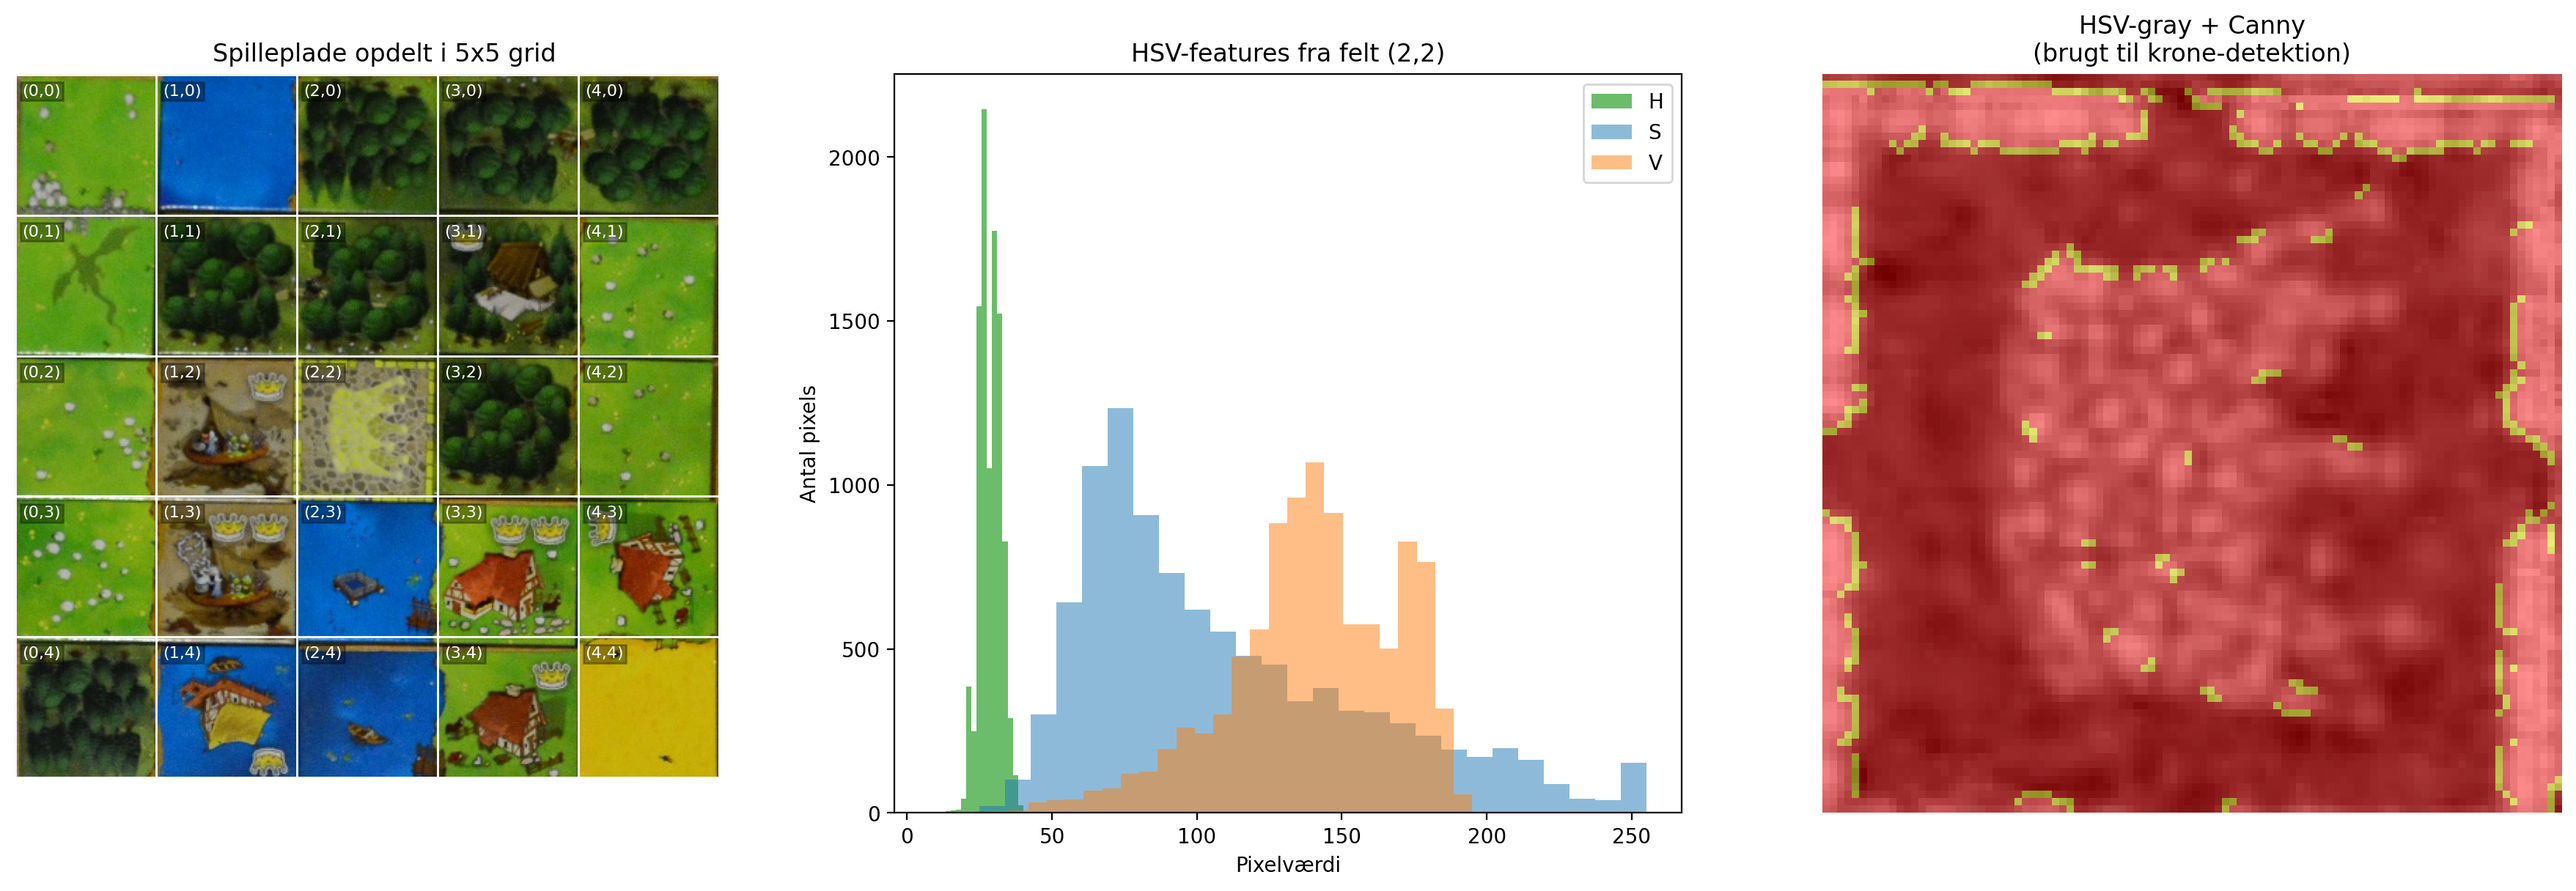
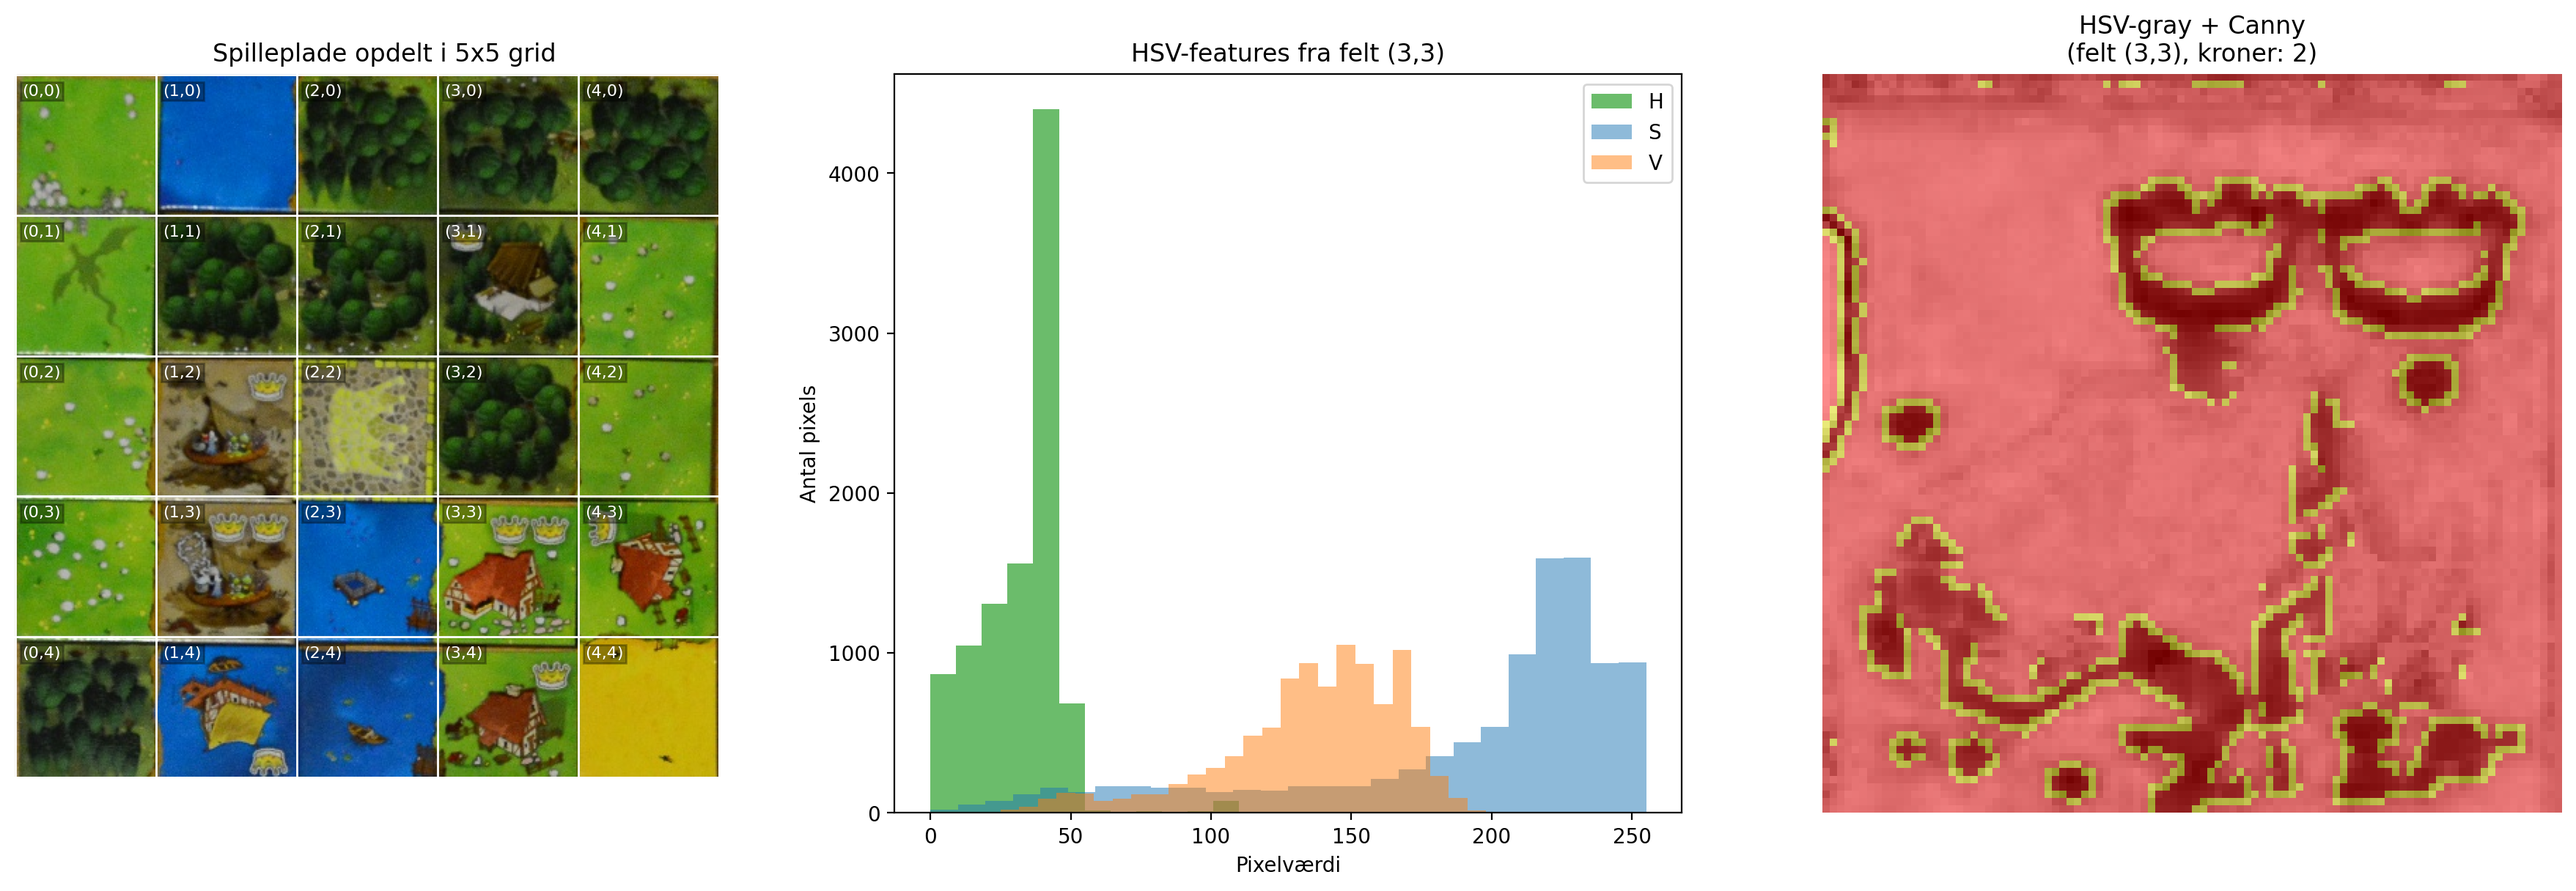
chore: clean up empty code change sections in the changes log

diff --git a/generate_report_figures.py b/generate_report_figures.py
@@ -207,20 +207,18 @@ def detect_crowns_debug(
             confirmed_rects.append(rect)
 
     if potential_matches:
-        raw_rectangles = [match[0] for match in potential_matches]
-        raw_grouped, _ = cv.groupRectangles(raw_rectangles, groupThreshold=1, eps=0.5)
-        if len(raw_grouped) == 0:
-            raw_grouped = np.array(raw_rectangles, dtype=np.int32)
+        # Bevidst før grouping, så debug-figuren tydeligt viser hvorfor efterfiltrering er nødvendig
+        raw_candidates = np.array([match[0] for match in potential_matches], dtype=np.int32)
     else:
-        raw_grouped = np.empty((0, 4), dtype=np.int32)
+        raw_candidates = np.empty((0, 4), dtype=np.int32)
 
     if not confirmed_rects:
-        return raw_grouped, np.empty((0, 4), dtype=np.int32)
+        return raw_candidates, np.empty((0, 4), dtype=np.int32)
 
     verified_grouped, _ = cv.groupRectangles(confirmed_rects, groupThreshold=1, eps=0.5)
     if len(verified_grouped) == 0:
         verified_grouped = np.array(confirmed_rects, dtype=np.int32)
-    return raw_grouped, verified_grouped
+    return raw_candidates, verified_grouped
 
 
 def build_tiles(image: np.ndarray, model: RandomForestClassifier, feature_cols: list[str], label_encoder: LabelEncoder, templates: list[tuple[np.ndarray, np.ndarray, int, int, float, float]]) -> dict[tuple[int, int], dict]:
@@ -291,7 +289,13 @@ def draw_architecture_diagram() -> None:
     plt.close(fig)
 
 
-def draw_feature_visualization(sample_image: np.ndarray, model: RandomForestClassifier, feature_cols: list[str], label_encoder: LabelEncoder) -> None:
+def draw_feature_visualization(
+    sample_image: np.ndarray,
+    model: RandomForestClassifier,
+    feature_cols: list[str],
+    label_encoder: LabelEncoder,
+    templates: list[tuple[np.ndarray, np.ndarray, int, int, float, float]],
+) -> None:
     fig, axes = plt.subplots(1, 3, figsize=(18, 6))
 
     axes[0].imshow(cv.cvtColor(sample_image, cv.COLOR_BGR2RGB))
@@ -304,8 +308,22 @@ def draw_feature_visualization(sample_image: np.ndarray, model: RandomForestClas
         for x in range(5):
             axes[0].text(x * 100 + 5, y * 100 + 15, f"({x},{y})", color="white", fontsize=8, bbox=dict(facecolor="black", alpha=0.3, pad=1))
 
-    # Samme felt vises i både HSV- og Canny-visualisering
-    tile_x, tile_y = 2, 2
+    # Vælg helst et felt med krone, så featurefiguren bliver mere informativ
+    image_hsv = cv.cvtColor(sample_image, cv.COLOR_BGR2HSV)
+    image_hsv_gray = cv.cvtColor(image_hsv, cv.COLOR_BGR2GRAY)
+    all_rects = detect_crowns(image_hsv, image_hsv_gray, templates)
+    crowns_per_tile: dict[tuple[int, int], int] = {}
+    for x, y, w, h in all_rects:
+        cx = x + w // 2
+        cy = y + h // 2
+        tile_coord = (cx // 100, cy // 100)
+        crowns_per_tile[tile_coord] = crowns_per_tile.get(tile_coord, 0) + 1
+
+    if crowns_per_tile:
+        tile_x, tile_y = max(crowns_per_tile.items(), key=lambda item: item[1])[0]
+    else:
+        tile_x, tile_y = 2, 2
+
     tile = sample_image[tile_y * 100 : (tile_y + 1) * 100, tile_x * 100 : (tile_x + 1) * 100]
     hsv_tile = cv.cvtColor(tile, cv.COLOR_BGR2HSV)
     h_channel = hsv_tile[:, :, 0].flatten()
@@ -324,7 +342,8 @@ def draw_feature_visualization(sample_image: np.ndarray, model: RandomForestClas
     hsv_edges = cv.Canny(hsv_gray, 200, 220)
     axes[2].imshow(hsv_gray, cmap="gray")
     axes[2].imshow(hsv_edges, cmap="autumn", alpha=0.45)
-    axes[2].set_title("HSV-gray + Canny\n(brugt til krone-detektion)")
+    crown_note = crowns_per_tile.get((tile_x, tile_y), 0)
+    axes[2].set_title(f"HSV-gray + Canny\n(felt ({tile_x},{tile_y}), kroner: {crown_note})")
     axes[2].axis("off")
 
     fig.tight_layout()
@@ -365,38 +384,31 @@ def draw_crown_visualization(sample_image: np.ndarray, templates: list[tuple[np.
     return {}
 
 
-def draw_template_debug_comparison(sample_image: np.ndarray, templates: list[tuple[np.ndarray, np.ndarray, int, int, float, float]]) -> None:
-    fig, axes = plt.subplots(1, 2, figsize=(14, 7))
-    for ax in axes:
-        ax.imshow(cv.cvtColor(sample_image, cv.COLOR_BGR2RGB))
-        ax.axis("off")
-        for i in range(6):
-            ax.axhline(i * 100, color="white", lw=1, alpha=0.6)
-            ax.axvline(i * 100, color="white", lw=1, alpha=0.6)
+def draw_template_reference_figure() -> None:
+    template_path = BASE_DIR / "features" / "kongekrone_nord.jpg"
+    template_bgr = cv.imread(str(template_path), cv.IMREAD_COLOR)
+    if template_bgr is None:
+        return
 
-    image_hsv = cv.cvtColor(sample_image, cv.COLOR_BGR2HSV)
-    image_hsv_gray = cv.cvtColor(image_hsv, cv.COLOR_BGR2GRAY)
-    raw_rects, verified_rects = detect_crowns_debug(image_hsv, image_hsv_gray, templates)
+    template_hsv = cv.cvtColor(template_bgr, cv.COLOR_BGR2HSV)
+    template_hsv_gray = cv.cvtColor(template_hsv, cv.COLOR_BGR2GRAY)
+    template_edges = cv.Canny(template_hsv_gray, 140, 180)
 
-    for rect in raw_rects:
-        x, y, w, h = rect
-        axes[0].add_patch(
-            plt.Rectangle((x, y), w, h, fill=False, ec="#ff4d4d", lw=1.2)
-        )
-    for rect in verified_rects:
-        x, y, w, h = rect
-        axes[1].add_patch(
-            plt.Rectangle((x, y), w, h, fill=False, ec="#00ff84", lw=1.8)
-        )
+    fig, axes = plt.subplots(1, 3, figsize=(12, 4.5))
+    axes[0].imshow(cv.cvtColor(template_bgr, cv.COLOR_BGR2RGB))
+    axes[0].set_title("Template (RGB)")
+    axes[0].axis("off")
 
-    raw_count = len(raw_rects)
-    verified_count = len(verified_rects)
+    axes[1].imshow(template_hsv_gray, cmap="gray")
+    axes[1].set_title("Template i HSV-gray")
+    axes[1].axis("off")
 
-    axes[0].set_title(f"Rå template matches (efter gruppering): {raw_count}")
-    axes[1].set_title(f"Efter Canny-verifikation: {verified_count}")
+    axes[2].imshow(template_edges, cmap="gray")
+    axes[2].set_title("Canny-kanter på template")
+    axes[2].axis("off")
 
     fig.tight_layout()
-    fig.savefig(FIGURE_DIR / "template_matching_debug.png", dpi=220, bbox_inches="tight")
+    fig.savefig(FIGURE_DIR / "template_reference.png", dpi=220, bbox_inches="tight")
     plt.close(fig)
 
 
@@ -439,10 +451,10 @@ def main() -> None:
         raise FileNotFoundError(f"Could not read sample image: {sample_image_path}")
 
     draw_architecture_diagram()
-    draw_feature_visualization(sample_image, model, feature_cols, label_encoder)
+    draw_feature_visualization(sample_image, model, feature_cols, label_encoder, templates)
     tiles = build_tiles(sample_image, model, feature_cols, label_encoder, templates)
     draw_crown_visualization(sample_image, templates)
-    draw_template_debug_comparison(sample_image, templates)
+    draw_template_reference_figure()
     total_score, clusters = calculate_score(tiles)
     draw_cluster_visualization(tiles, clusters)
     print(f"Saved figures to {FIGURE_DIR}")

diff --git a/Rapport_Afsnit_v2.tex b/Rapport_Afsnit_v2.tex
@@ -39,11 +39,11 @@ Dernæst trækkes der histogramegenskaber, hvor farvernes fordeling inddeles i i
 \begin{figure}[htbp]
     \centering
     \includegraphics[width=0.95\textwidth]{figures/grid_feature_visualization.png}
-    \caption{Et eksempel på en spilleplade opdelt i $5 \times 5$ grid, samt visualisering af både HSV-features (terrænklassificering) og HSV-gray/Canny-features (krone-detektion) fra et enkelt felt.}
+    \caption{Et eksempel på en spilleplade opdelt i $5 \times 5$ grid, samt visualisering af både HSV-features (terrænklassificering) og HSV-gray/Canny-features (krone-detektion) fra et felt med krone.}
     \label{fig:grid_extraction}
 \end{figure}
 
-Figur~\ref{fig:grid_extraction} viser, at systemet bruger forskellige feature-repræsentationer til forskellige delopgaver: HSV-histogrammer til terrænklassificering og en HSV-baseret gråtoneprojektion med Canny-kanter til krone-detektion. Formålet er at vælge den repræsentation, der bedst understøtter den konkrete beslutning i hvert modul.
+Figur~\ref{fig:grid_extraction} viser, at systemet bruger forskellige feature-repræsentationer til forskellige delopgaver: HSV-histogrammer til terrænklassificering og en HSV-baseret gråtoneprojektion med Canny-kanter til krone-detektion. Figuren er bevidst taget fra et felt, hvor der faktisk findes en krone, så sammenhængen mellem feature-repræsentation og objektlokalisering fremstår tydeligt.
 
 \subsection{Machine Learning: Terrænklassificering}
 Til klassificeringen af de seks generiske terræntyper samt den farveløse \texttt{blank}-type fungerer en \textit{Random Forest Classifier} model som grundsten. Modellen er trænet på manuelle annotationer i tilhørende træningssæt via \texttt{LabelEncoder}, som tillader algoritmen at arbejde kvantitativt med tekst-strenge.
@@ -67,16 +67,16 @@ Resultater samles af algoritmen via \texttt{cv.groupRectangles}, hvilket konsoli
     \label{fig:templatematching}
 \end{figure}
 
-I Figur~\ref{fig:templatematching} vises de endelige detektioner efter filtrering. Figuren skal læses sammen med den efterfølgende debug-figur, hvor forskellen mellem rå matches og verificerede matches tydeliggøres.
+I Figur~\ref{fig:templatematching} vises de endelige detektioner på pladen efter hele krone-pipelinen. Da den aktuelle model finder kroner stabilt på dette eksempel, giver en rå-vs-verificeret sammenligning begrænset ekstra information i netop dette tilfælde.
 
 \begin{figure}[htbp]
     \centering
-    \includegraphics[width=0.98\textwidth]{figures/template_matching_debug.png}
-    \caption{Side-by-side sammenligning af rå template matches (venstre) og matches efter Canny-verifikation (højre). Figuren forklarer, hvorfor nogle kandidater filtreres væk i den endelige kroneoptælling.}
-    \label{fig:templatematching_debug}
+    \includegraphics[width=0.82\textwidth]{figures/template_reference.png}
+    \caption{Visualisering af en anvendt krone-template: original template, HSV-gray repræsentation og Canny-kanter. Figuren viser de billedrepræsentationer, som matcher- og verifikationsleddet baserer sig på.}
+    \label{fig:template_reference}
 \end{figure}
 
-Figur~\ref{fig:templatematching_debug} fungerer som metodevalidering: venstre panel viser alle kandidater fundet af template matching-trinnet, mens højre panel viser de kandidater, der overlever konturkontrollen. Dermed dokumenteres det, at manglende kroner i output ikke er en visualiseringsfejl, men en konsekvens af de valgte tærskler og verifikationskrav.
+Figur~\ref{fig:template_reference} forklarer den tekniske mekanik i kronedetektionen og supplerer det overordnede detektionsresultat i Figur~\ref{fig:templatematching}. Kombinationen giver både et output-orienteret og et metode-orienteret billede af samme pipeline.
 
 \subsection{Algoritmik: Pointberegnings logik}
 Sidste trin af opgaven varetages af det specialudviklede Point Calculator modul, hvilket evaluerer hele spillepladens $5 \times 5$ grid i samklang. Modulets funktion er at bygge \textit{clusters}, hvor identiske og tilstødende terræntyper grupperes i henhold til spillets love.
